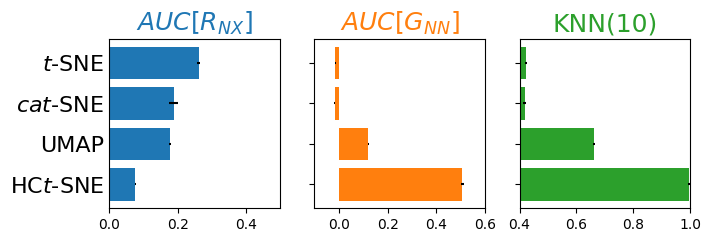
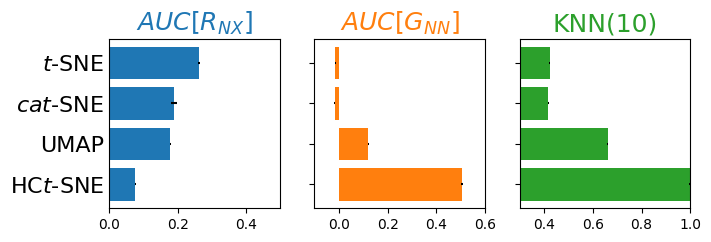
C-R Update plot confident interval 95%

Changed region(s): [[0.7117, 0.1736, 0.7736, 0.5207], [0.7117, 0.8967, 0.9283, 0.9545], [0.8354, 0.5207, 0.8664, 0.6653]]

diff --git a/plot_score_n_run.py b/plot_score_n_run.py
@@ -1,6 +1,7 @@
 # plot score for multiple run
 import os
 import json
+import math
 import numpy as np
 import pandas as pd
 from matplotlib import pyplot as plt
@@ -53,6 +54,9 @@ def load_scores(cache=True, score_file_name="scores.json"):
 
 
 def plot_scores(scores, out_name="scores.png"):
+    n_samples = 10
+    z = 1.96  # , z_{0.95} = 1.96, z_{0.995} = 2.807
+
     fig, axes = plt.subplots(1, 3, sharey=True, figsize=(7.5, 2.2))
     ax0 = axes[0]
 
@@ -65,10 +69,11 @@ def plot_scores(scores, out_name="scores.png"):
     for ax, (score_name, score_info) in zip(axes.ravel(), score_names.items()):
         score_name_display, min_val, max_val, color = score_info
         ax.set_title(score_name_display, color=color, fontsize=18)
-        score_values, error = zip(
+        score_values, stdev = zip(
             *[scores[method_name][score_name] for method_name in method_names]
         )
-        ax.barh(y_pos, score_values, xerr=error, color=color, align="center")
+        confidence = z * np.array(stdev) / math.sqrt(n_samples)
+        ax.barh(y_pos, score_values, xerr=confidence, color=color, align="center")
         ax.set_xlim(left=min_val, right=max_val)
 
     fig.savefig(out_name, bbox_inches="tight")
